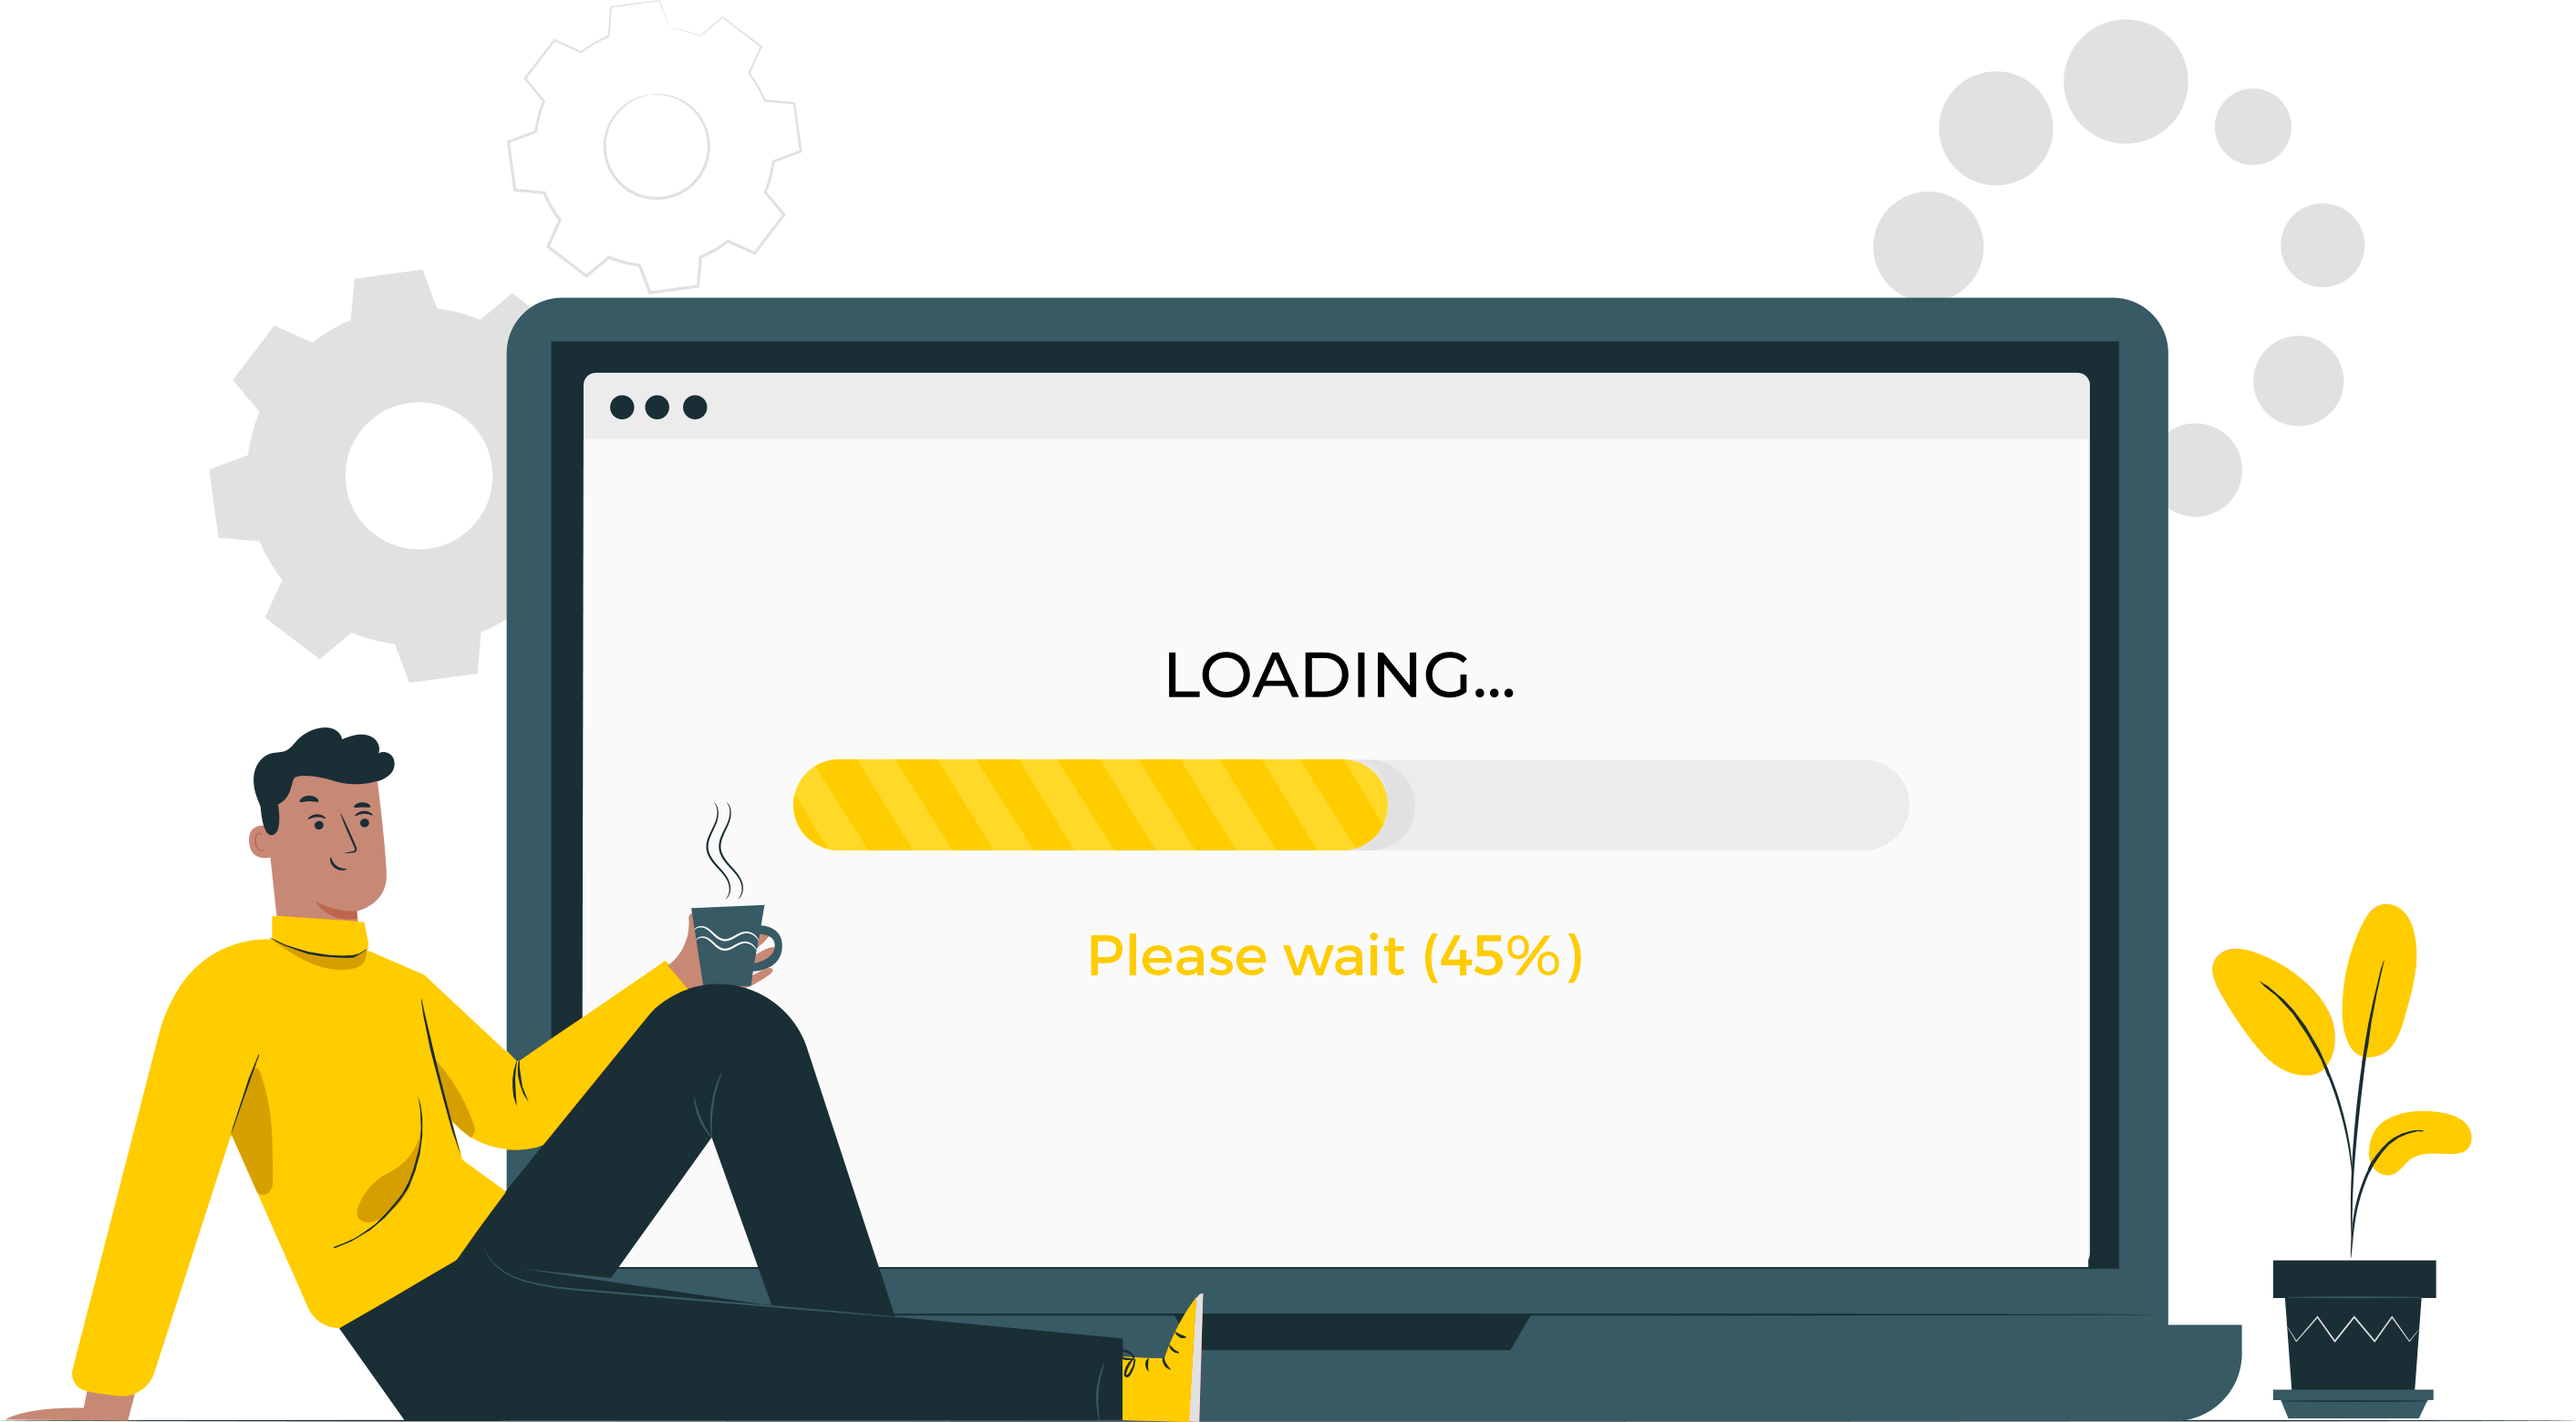
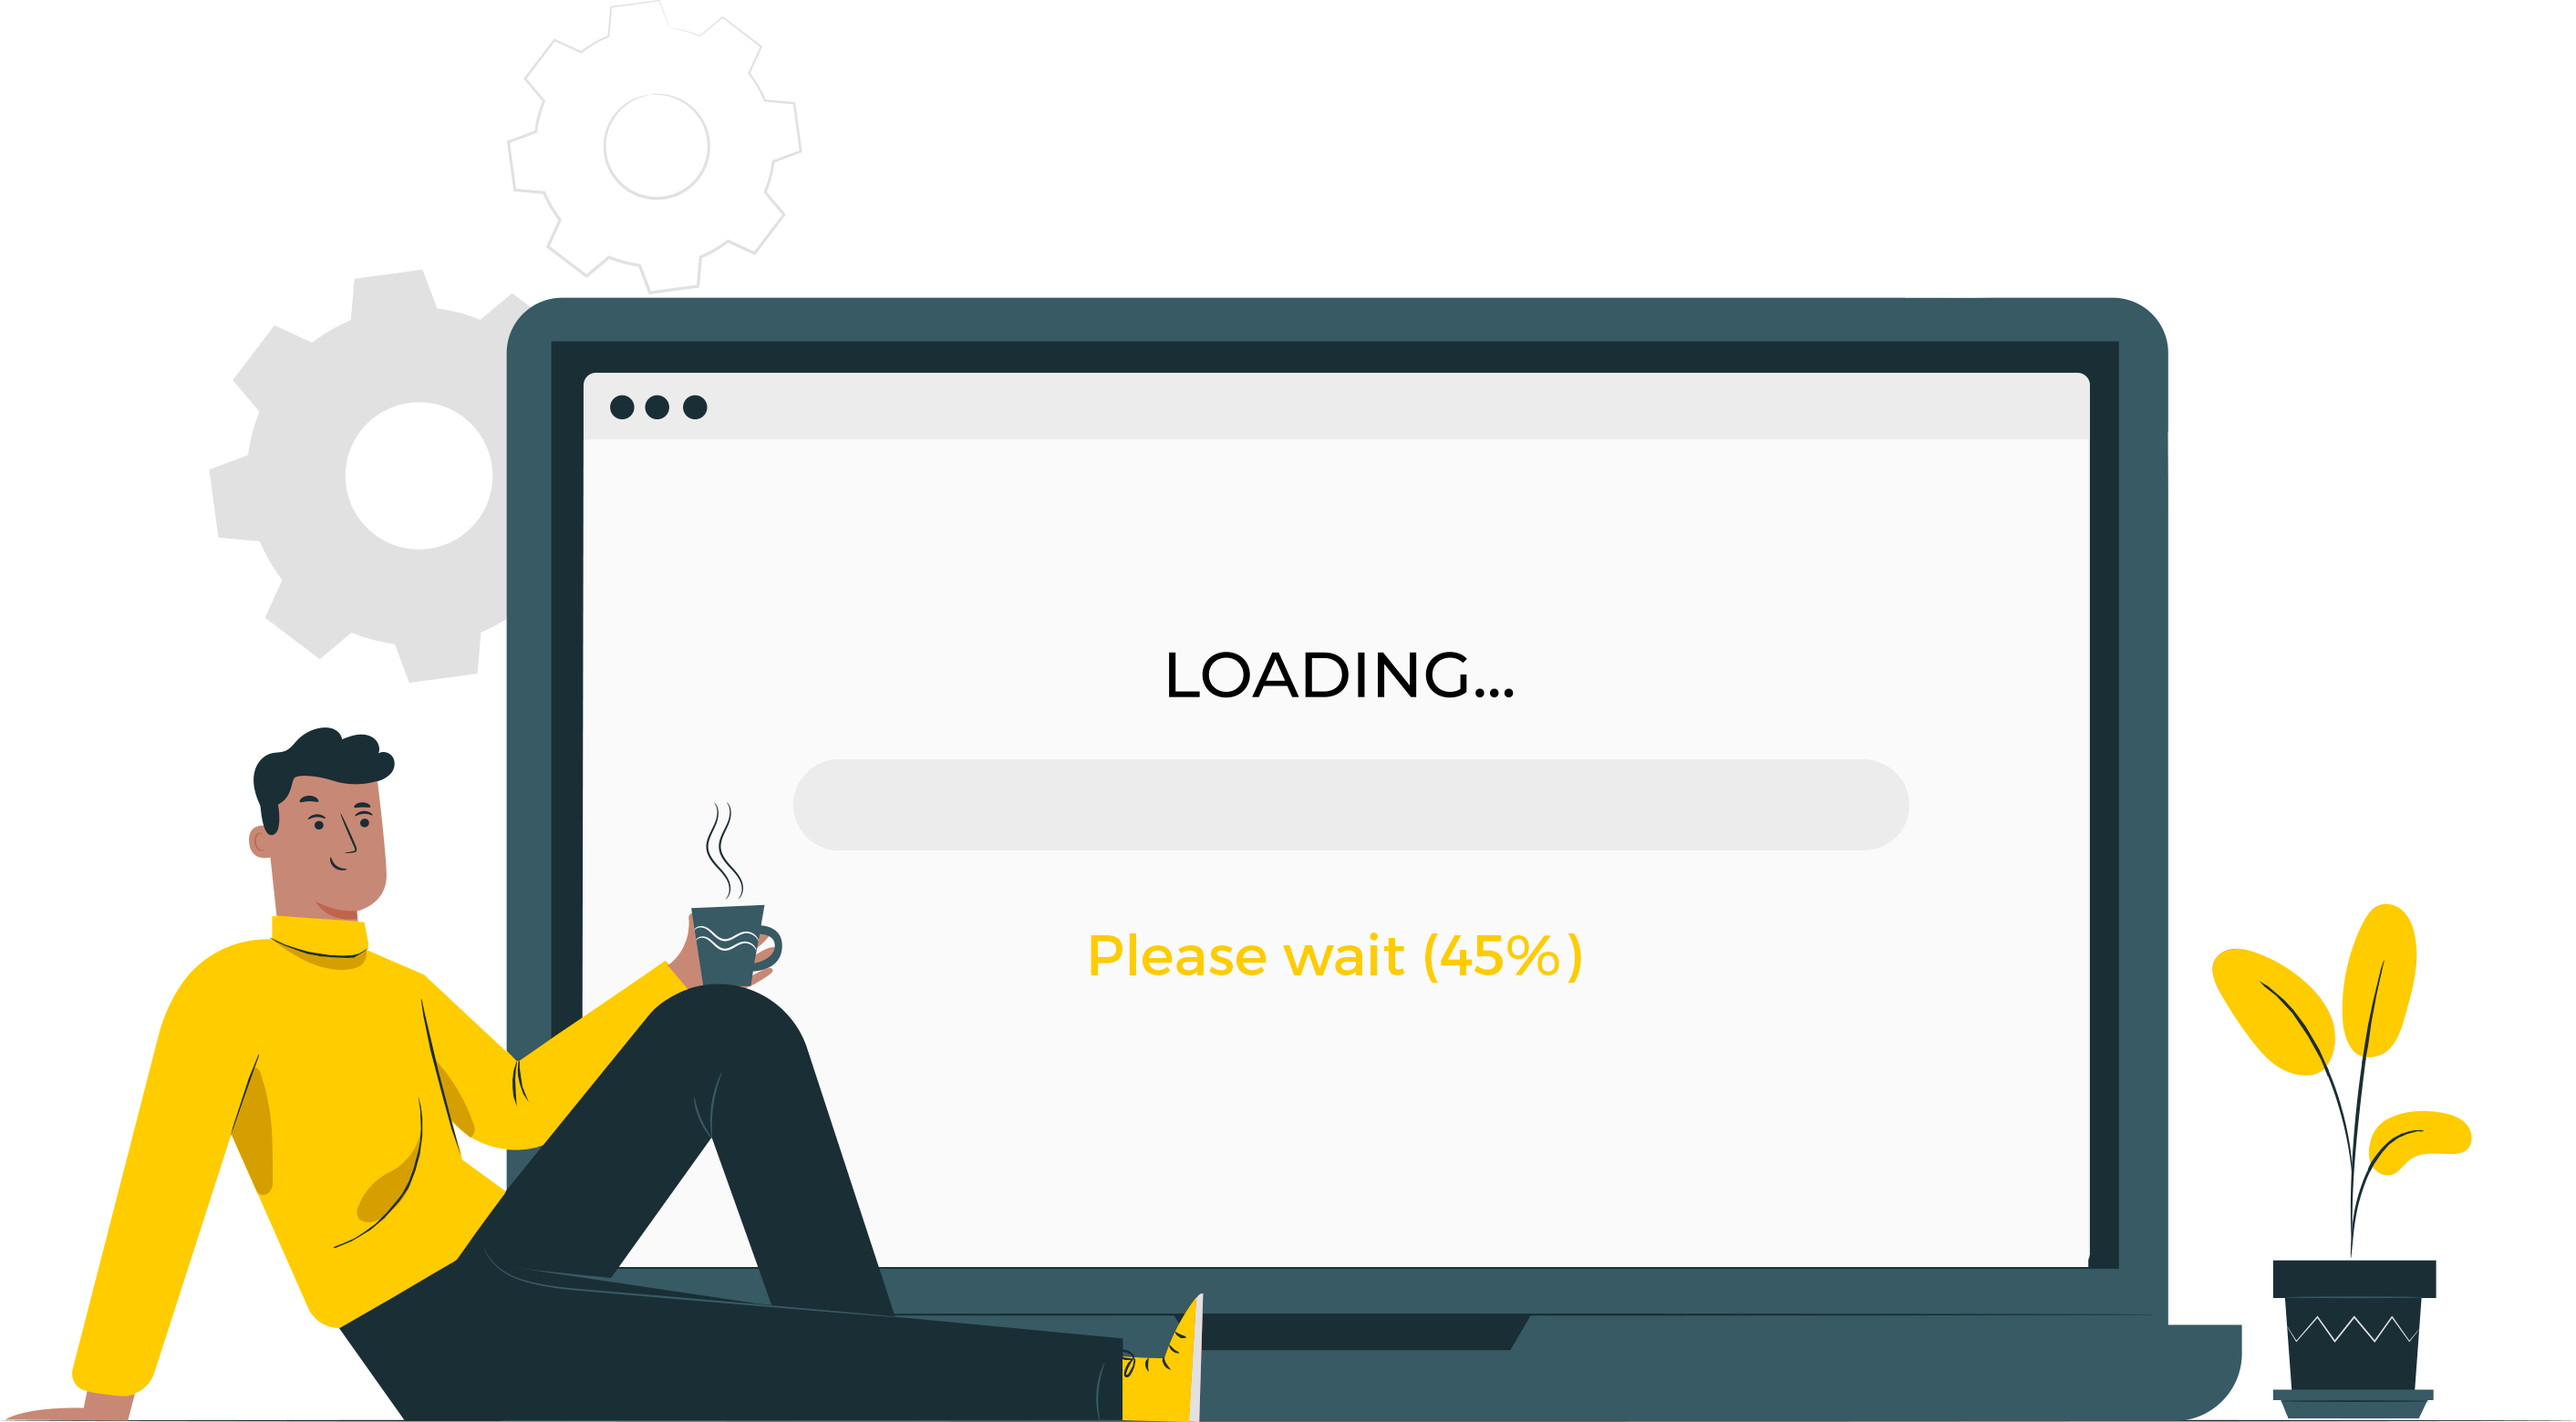
update animation on site

Changed region(s): [[0.7165, 0.0, 0.9345, 0.3692], [0.3115, 0.5231, 0.5607, 0.6154]]

diff --git a/index.html b/index.html
@@ -6,13 +6,15 @@
     <meta name="viewport" content="width=device-width, initial-scale=1.0">
     <link href="https://fonts.googleapis.com/css2?family=Montserrat:wght@400;500&display=swap" rel="stylesheet" />
     <link rel="stylesheet" href="style.css">
+    <link rel="stylesheet" href="https://cdnjs.cloudflare.com/ajax/libs/animate.css/4.1.1/animate.min.css"
+  />
     <title>Box Zone</title>
 </head>
 <body>
-    <header>
+    <header class="hide">
         <a href=""><img src="./img/LogoBoxWhite.png"  class="logo"  alt=""></a>
     </header>
-    <section class="content">
+    <section class="content hide">
         <div class="disc">
             <h1>Em Construção</h1>
             <p>Nosso site está em construção, <br> mas estamos prontos para começar!<br> Estamos preparando algo incrivel e <br>emocionante para você.</p>
@@ -26,7 +28,12 @@
         </div>
         <div class="imgUnder">
             <img src="./img/banner.png" alt="">
+            <div class="percent animate__animated animate__lightSpeedInLeft animate__delay-5s">
+            </div>
         </div>
     </section>
+    <div class="loading animate__animated animate__fadeOut animate__delay-3s">
+        <img src="./img/LogoBox.png" class="animate__animated animate__bounce" alt="">
+    </div>
 </body>
 </html>

diff --git a/style.css b/style.css
@@ -68,6 +68,7 @@ header img{
     height: 100vh;
     display: flex;
     align-items: center;
+    position: relative;
 }
 .imgUnder img{
     width: 90%;
@@ -80,4 +81,30 @@ header img{
 .social img{
     width: 40px;
     margin-right: 10px;
+}
+.percent{
+    width: calc(360px/2);
+    height: 28px;
+    position: absolute;
+    left: 27%;
+    top: 51.5%;
+    border-radius: 11px;
+    background-color: #ffcc00;
+}
+
+/*---------------Loading Page -----------------*/
+.loading{
+    width: 100vw;
+    height: 100vh;
+    background-color: #ffffff;
+    display: flex;
+    align-items: center;
+    justify-content: center;
+    position: absolute;
+    top: 0px;
+}
+
+.loading img{
+    width: 75%;
+    height: 700px;
 }
